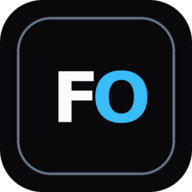
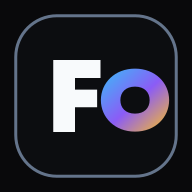
更新

diff --git a/index.html b/index.html
@@ -2,14 +2,16 @@
 <html lang="zh-Hant" data-theme="dark">
   <head>
     <meta charset="UTF-8">
-    <link rel="icon" href="/favicon.ico">
+    <link rel="icon" type="image/svg+xml" href="/freedom-os-icon.svg">
+    <link rel="icon" type="image/x-icon" href="/favicon.ico">
     <link rel="manifest" href="/manifest.webmanifest">
-    <link rel="apple-touch-icon" href="/pwa-192.png">
+    <link rel="apple-touch-icon" sizes="180x180" href="/apple-touch-icon.png">
     <meta name="viewport" content="width=device-width, initial-scale=1.0">
     <meta name="theme-color" content="#09090b">
     <meta name="apple-mobile-web-app-capable" content="yes">
     <meta name="apple-mobile-web-app-status-bar-style" content="black-translucent">
     <meta name="apple-mobile-web-app-title" content="Freedom OS">
+    <meta name="application-name" content="Freedom OS">
     <meta name="mobile-web-app-capable" content="yes">
     <meta name="description" content="HY Freedom OS — 交易規劃、MT5 紀錄、復盤、風控與交易分析系統。">
     <title>HY Freedom OS</title>

diff --git a/public/sw.js b/public/sw.js
@@ -1,8 +1,10 @@
-const CACHE_NAME = 'freedom-os-app-shell-v5'
+const CACHE_NAME = 'freedom-os-app-shell-v6'
 const APP_SHELL = [
   '/',
   '/manifest.webmanifest',
+  '/freedom-os-icon.svg',
   '/favicon.ico',
+  '/apple-touch-icon.png',
   '/pwa-192.png',
   '/pwa-512.png',
   '/pwa-maskable-512.png',
